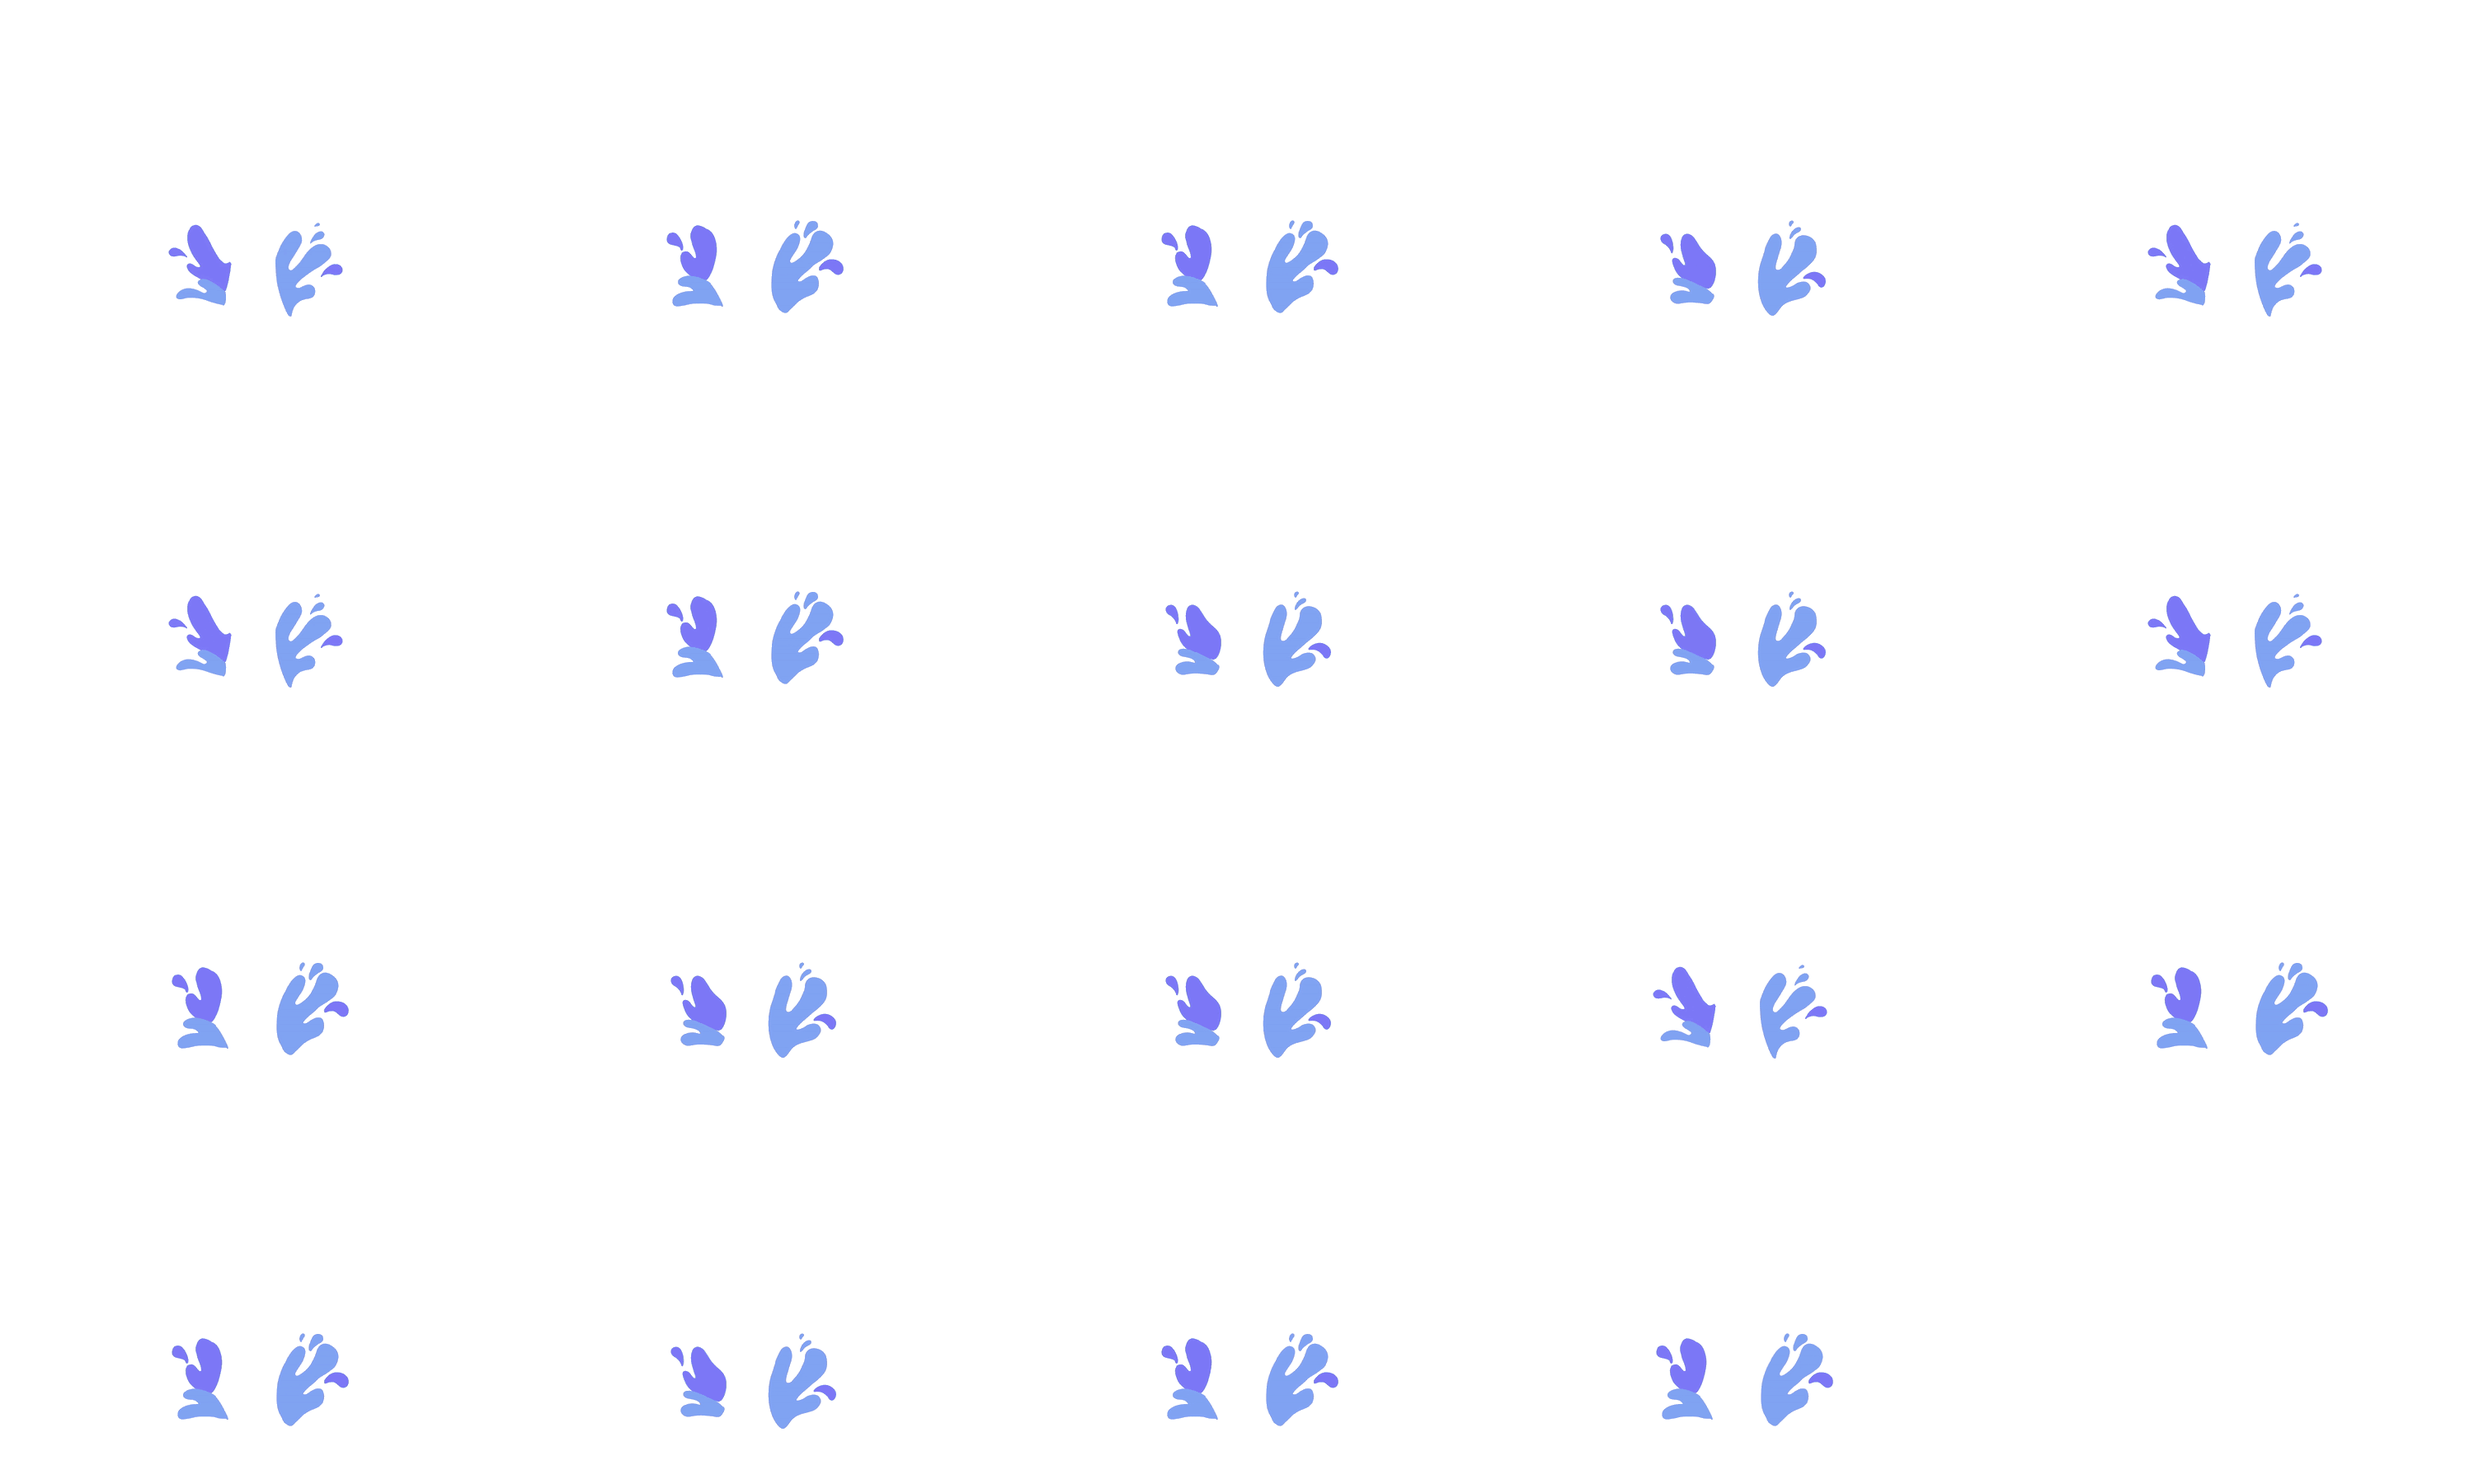
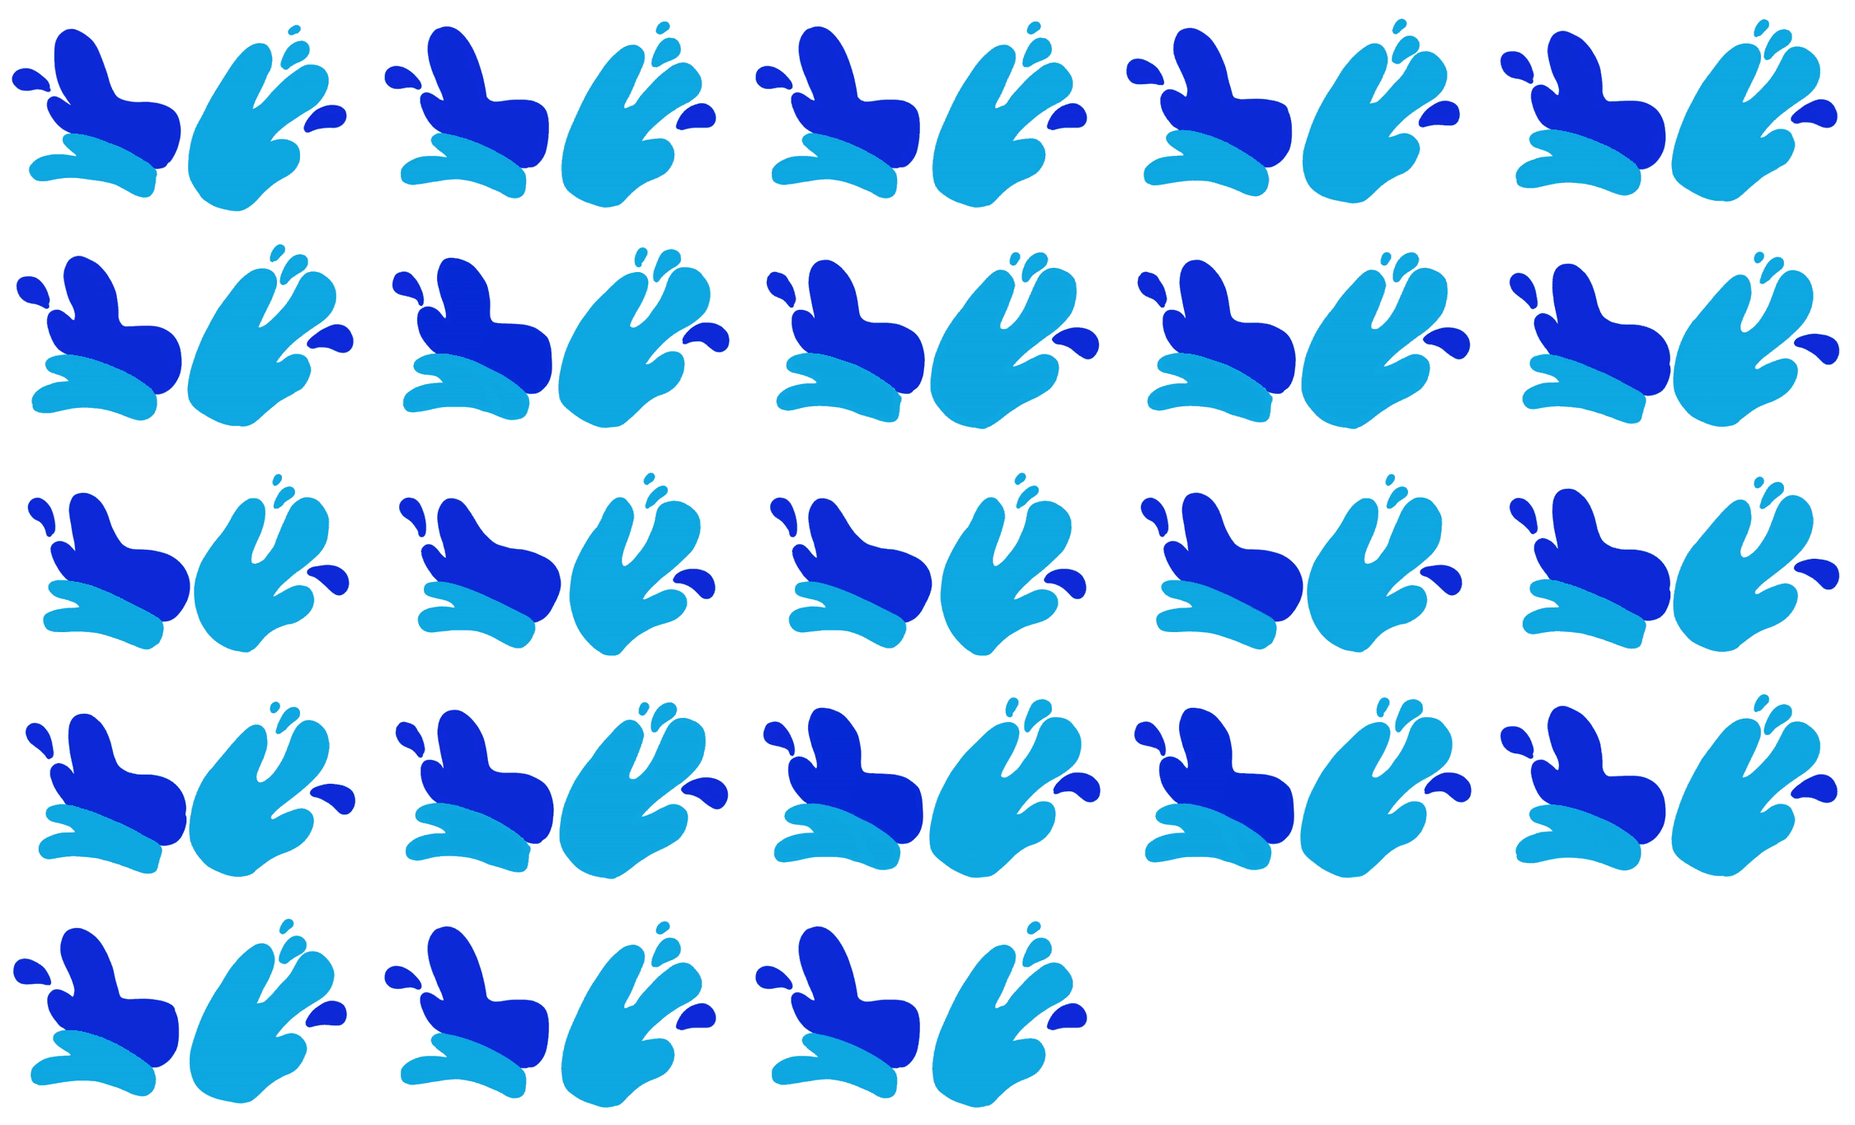
added new assets

diff --git a/core/src/edu/cornell/gdiac/temporary/entity/Note.java b/core/src/edu/cornell/gdiac/temporary/entity/Note.java
@@ -297,7 +297,7 @@ public class Note{
 	public void draw(GameCanvas canvas, float widthConfine, float heightConfine, float topbound, float lowbound) {
 		//Calculate a scale such that the entire sprite fits within both confines, but does not get distorted
 		float scale = Math.min(widthConfine/w, heightConfine/h);
-		float splashScale = scale * 3.5f;
+
 
 		float headHeight = animator.getRegionHeight()*scale;
 
@@ -306,9 +306,12 @@ public class Note{
 			frontSplash.setFrame((int) holdingAnimationFrames);
 
 			// draw back holding sprite
-			if (holding)
+			if (holding){
+				float splashScale = Math.min(widthConfine/backSplash.getRegionWidth(), heightConfine/backSplash.getRegionHeight());
 				canvas.draw(backSplash, Color.WHITE, backSplash.getRegionWidth() / 2, backSplash.getRegionHeight() / 2,
-					x, bottomY + animator.getRegionHeight()* scale + 50, 0.0f, splashScale, splashScale);
+						x, bottomY, 0.0f, splashScale, splashScale);
+			}
+
 
 			// DRAW THE HELD MIDDLE PART OF THE NOTE
 			//The tail should be about half the width of the actual note assets
@@ -399,9 +402,12 @@ public class Note{
 				canvas.drawSubsection(endAnimator, x, y, scale, 0f, 1f, startFrac, 1f);
 			}
 
-			if (holding)
+			if (holding){
+				float splashScale = Math.min(widthConfine/backSplash.getRegionWidth(), heightConfine/backSplash.getRegionHeight());
 				canvas.draw(frontSplash, Color.WHITE, frontSplash.getRegionWidth() / 2,frontSplash.getRegionHeight() / 2,
-					x, bottomY +  animator.getRegionHeight() * scale + 50, 0.0f, splashScale, splashScale);
+						x, bottomY, 0.0f, splashScale, splashScale);
+			}
+
 		}
 		else{
 			animator.setFrame((int)animeframe);

diff --git a/core/src/edu/cornell/gdiac/temporary/Level.java b/core/src/edu/cornell/gdiac/temporary/Level.java
@@ -166,8 +166,8 @@ public class Level {
         voiceSprite = new FilmStrip(directory.getEntry("singer-cat", Texture.class), 1, 1, 1);
         drummerSprite = new FilmStrip(directory.getEntry("drummer-cat", Texture.class), 1, 1, 1);
         synthSprite = new FilmStrip(directory.getEntry("drummer-cat", Texture.class), 1, 1, 1);
-        backSplash = new FilmStrip(directory.getEntry("back-splash", Texture.class), 4, 5, 19);
-        frontSplash = new FilmStrip(directory.getEntry("front-splash", Texture.class), 4, 5, 19);
+        backSplash = new FilmStrip(directory.getEntry("back-splash", Texture.class), 5, 5, 23);
+        frontSplash = new FilmStrip(directory.getEntry("front-splash", Texture.class), 5, 5, 21);
 
         HUnit = directory.getEntry("borderHUnit", Texture.class);
         VUnit = directory.getEntry("borderVUnit", Texture.class);

diff --git a/core/src/edu/cornell/gdiac/temporary/entity/BandMember.java b/core/src/edu/cornell/gdiac/temporary/entity/BandMember.java
@@ -390,7 +390,9 @@ public class BandMember {
     public void drawBackground(GameCanvas canvas, Texture background){
         float xScale = width/background.getWidth();
         float yScale = height/background.getHeight();
-        canvas.draw(background, Color.WHITE, 0, 0, bottomLeftCorner.x, bottomLeftCorner.y, 0.0f, xScale, yScale);
+        Color c = Color.WHITE;
+        c.a = 0.5f;
+        canvas.draw(background, c, 0, 0, bottomLeftCorner.x, bottomLeftCorner.y, 0.0f, xScale, yScale);
     }
 
     public void drawHPBar(GameCanvas canvas){

diff --git a/core/src/edu/cornell/gdiac/temporary/GameCanvas.java b/core/src/edu/cornell/gdiac/temporary/GameCanvas.java
@@ -127,7 +127,7 @@ public class GameCanvas {
 		}
 		resize();
 	}
-	
+
 	/**
 	 * Returns the height of this canvas
 	 *
@@ -499,6 +499,7 @@ public class GameCanvas {
 		// Call the master drawing method (we have to for transforms)
 		holder.setRegion(image);
 		draw(holder,tint,ox,oy,x,y,angle,sx,sy);
+		tint.a = 1f;
 	}
 	
 	/**
